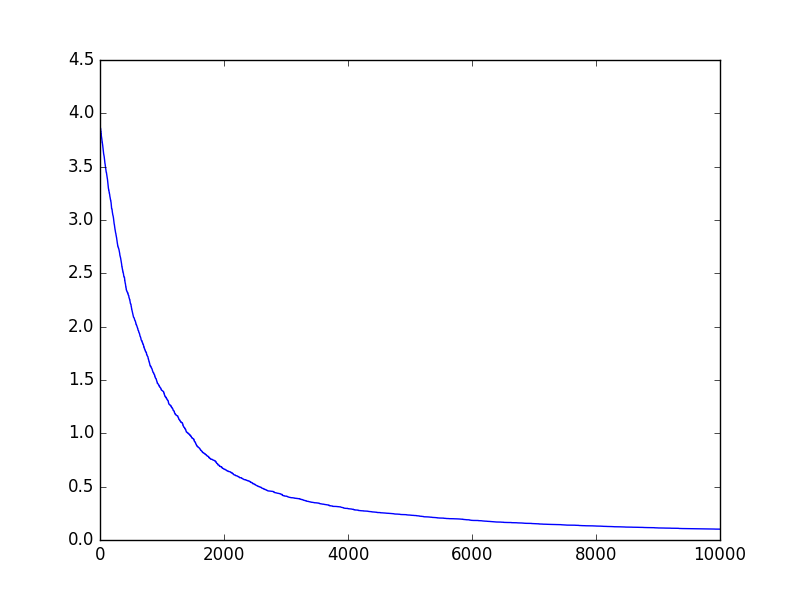
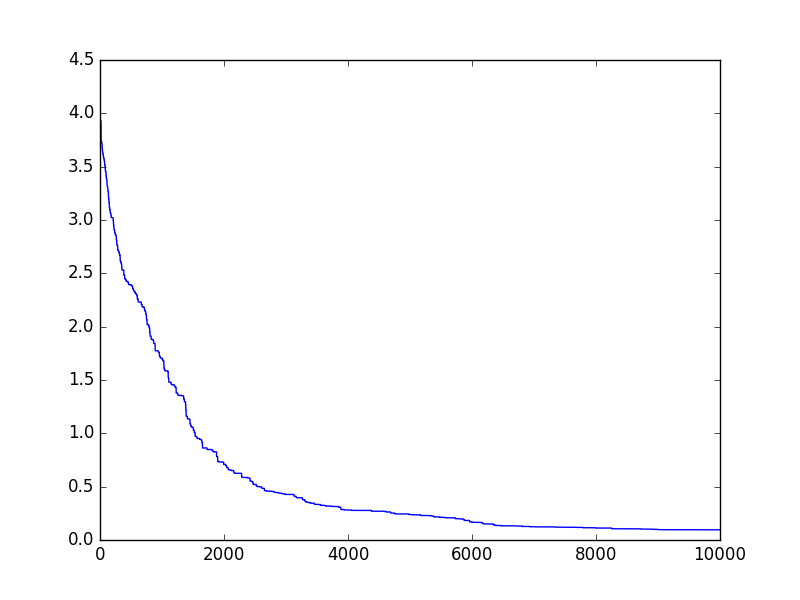
add docstrings in example/simple_functions

diff --git a/example/linear_classifier_using_ramploss/example.py b/example/linear_classifier_using_ramploss/example.py
@@ -1,19 +1,20 @@
-
-import arff, codecs
-from zoopt import Dimension, Objective, Parameter, Opt, Solution
-
 """
 this example optimizes a linear classifier using the non-convex ramploss instead of any convex loss function.
 
 this example requires the liac-arff package to read ARFF file
 
 Author:
-    Yuren Liu, Yang Yu
+    Yu-Ren Liu, Yang Yu
 """
 
+import arff, codecs
+from zoopt import Dimension, Objective, Parameter, Opt, Solution
 
-## define ramploss learning loss function
+
 class RampLoss:
+    """
+    Define ramploss learning loss function.
+    """
     __data = None
     __test = None
     __ramploss_c = 10
@@ -23,51 +24,72 @@ class RampLoss:
     def __init__(self, arfffile):
         self.read_data(arfffile)
 
-    # Read data from file
     def read_data(self, filename):
+        """
+        Read data from file.
+
+        :param filename: Name of the file to read
+        :return: no return
+        """
         file_ = codecs.open(filename, 'rb', 'utf-8')
         decoder = arff.ArffDecoder()
         dataset = decoder.decode(file_.readlines(), encode_nominal=True)
         file_.close()
         self.__data = dataset['data']
-        if( self.__data is not None and self.__data[0] is not None):
+        if self.__data is not None and self.__data[0] is not None:
             self.__dim_size = len(self.__data[0])
 
     def get_dim_size(self):
         return self.__dim_size
 
-    # calculate product between the weights and the instance
     def calc_product(self, weight, j):
+        """
+        Calculate product between the weights and the instance.
+
+        :param weight: weight vector
+        :param j: the index of the instance
+        :return: product value
+        """
         temp_sum = 0
         for i in range(len(weight) - 1):
             temp_sum += weight[i] * self.__data[j][i]
         temp_sum += weight[len(weight) - 1]
         return temp_sum
 
-    # calculate hinge loss
     def calc_h(self, ylfx, st):
+        """
+        Calculate hinge loss.
+        """
         temp = st - ylfx
         if temp > 0:
             return temp
         else:
             return 0
 
-    # calculate norm
-    def calc_norm(self, weight):
+    def calc_regularization(self, weight):
+        """
+        Calculate regularization
+        """
         temp_sum = 0
         for i in range(len(weight)):
             temp_sum += weight[i] * weight[i]
         return temp_sum
 
-    # transform label from 0/1 to -1/+1
     def trans_label(self, i):
+        """
+        Transform label from 0/1 to -1/+1
+        """
         if self.__data[i][self.__dim_size - 1] == 1:
             return 1
         else:
             return -1
 
-    # calculate the ramploss
+    #
     def eval(self, solution):
+        """
+        Objectve function to calculate the ramploss.
+
+        """
         weight = solution.get_x()
         H1 = 0
         Hs = 0
@@ -75,12 +97,15 @@ class RampLoss:
             fx = self.calc_product(weight, i)
             H1 += self.calc_h(self.trans_label(i) * fx, 1)
             Hs += self.calc_h(self.trans_label(i) * fx, self.__ramploss_s)
-        norm = self.calc_norm(weight)
-        value = norm / 2 + self.__ramploss_c * H1 - self.__ramploss_c * Hs
+        regularization = self.calc_regularization(weight)
+        value = regularization / 2 + self.__ramploss_c * H1 - self.__ramploss_c * Hs
         return value
 
-    # training error
-    def trainerror(self, best):
+    #
+    def training_error(self, best):
+        """
+        Training error.
+        """
         wrong = 0.0
         for i in range(len(self.__data)):
             fx = self.calc_product(best, i)
@@ -90,6 +115,9 @@ class RampLoss:
         return rate
 
     def dim(self):
+        """
+        Construct dimension of this problem.
+        """
         return Dimension(self.__dim_size, [[-10, 10]] * self.__dim_size, [True] * self.__dim_size)
 
 
@@ -100,7 +128,6 @@ if __name__=='__main__':
     repeat = 1
     result = []
     for i in range(repeat):
-
         objective = Objective(loss.eval, loss.dim())
         budget = 100 * loss.get_dim_size()
         parameter = Parameter(budget=budget)
@@ -109,4 +136,4 @@ if __name__=='__main__':
 
         print('solved solution is:')
         ins.print_solution()
-        print('training error: %f' % loss.trainerror(ins.get_x()))
+        print('training error: %f' % loss.training_error(ins.get_x()))

diff --git a/example/simple_functions/opt_under_noise.py b/example/simple_functions/opt_under_noise.py
@@ -1,3 +1,11 @@
+"""
+This file contains an example of optimizing a function under noise.
+
+Author:
+    Xiong-Hui chen, Yu-Ren Liu
+"""
+
+
 import matplotlib.pyplot as plt
 import time
 import numpy as np
@@ -7,8 +15,12 @@ from zoopt.utils.zoo_global import gl
 from quick_start import result_analysis
 
 
-# ssracos example for minimizing ackley with Gaussian noise
 def minimize_ackley_continuous_noisy():
+    """
+    SSRacos example of minimizing ackley function under Gaussian noise
+
+    :return: no return
+    """
     gl.set_seed(10001)  # set random seed
     t1 = time.clock()
     repeat = 10  # repeat of optimization experiments
@@ -22,7 +34,7 @@ def minimize_ackley_continuous_noisy():
         dim_tys = [True] * dim_size  # dimension type : real
         dim = Dimension(dim_size, dim_regs, dim_tys)  # form up the dimension object
         objective = Objective(ackley_noise_func, dim, balance_rate=0.5)  # form up the objective function
-        budget = 500  # 20*dim_size  # number of calls to the objective function
+        budget = 5000  # 20*dim_size  # number of calls to the objective function
         # suppression=True means optimize with value suppression, which is a noise handling method
         # non_update_allowed=500 and resample_times=100 means if the best solution doesn't change for 500 budgets,
         # the best solution will be evaluated repeatedly for 100 times
@@ -43,8 +55,8 @@ def minimize_ackley_continuous_noisy():
         plt.plot(history)
         print(history)
         print("len history %s" % len(objective.get_history()))
-    plt.show()
-    # plt.savefig("img/ackley_continuous_noisy_figure.png")  # uncomment this line and comment last line to save figures
+    # plt.show()
+    plt.savefig("img/ackley_continuous_noisy_figure.png")  # uncomment this line and comment last line to save figures
     result_analysis(result, repeat)
     t2 = time.clock()
     print('time cost: %f' % (t2 - t1))

diff --git a/example/simple_functions/quick_start.py b/example/simple_functions/quick_start.py
@@ -1,9 +1,8 @@
 """
-This file contains some examples about how to use Racos(or SRacos)
-optimization algorithm
+This file contains an example of how to optimize continuous ackley function.
 
 Author:
-    Yuren Liu, Xionghui Chen
+    Yu-Ren Liu, Xiong-Hui Chen
 """
 
 from zoopt import Dimension, Objective, Parameter, Opt, Solution
@@ -12,8 +11,15 @@ from fx import ackley
 import numpy as np
 
 
-# get mean value and standard deviation of best 'top' results
+#
 def result_analysis(results, top):
+    """
+    Get mean value and standard deviation of best 'top' results.
+
+    :param results: a list of results
+    :param top: the number of best results used to calculate mean value and standard deviation
+    :return: no return
+    """
     limit = top if top < len(results) else len(results)
     results.sort()
     top_k = results[0:limit]
@@ -24,7 +30,7 @@ def result_analysis(results, top):
 
 if __name__ == '__main__':
     dim = 100 # dimension
-    obj = Objective(ackley, Dimension(dim, [[-1, 1]] * dim, [True] * dim)) # setup objective
+    obj = Objective(ackley, Dimension(dim, [[-1, 1]] * dim, [True] * dim))  # setup objective
     # perform optimization
     solution = Opt.min(obj, Parameter(budget=100 * dim))
     # print result

diff --git a/example/simple_functions/continue_opt.py b/example/simple_functions/continue_opt.py
@@ -1,3 +1,10 @@
+"""
+This file contains examples of optimizing continuous objective function.
+
+Author:
+    Yu-Ren Liu, Xiong-Hui Chen
+"""
+
 import matplotlib.pyplot as plt
 import time
 import numpy as np
@@ -7,8 +14,12 @@ from zoopt.utils.zoo_global import gl
 from quick_start import result_analysis
 
 
-# example for minimizing the ackley function
 def minimize_ackley_continuous():
+    """
+    Continuous optimization example of minimizing the ackley function.
+
+    :return: no return
+    """
     t1 = time.clock()
     gl.set_seed(12345)  # set random seed
     repeat = 1  # repeat number of optimization
@@ -44,8 +55,12 @@ def minimize_ackley_continuous():
     print('time cost: %f' % (t2 - t1))
 
 
-# example for minimizing the sphere function
 def minimize_sphere_continuous():
+    """
+    Example of minimizing the sphere function
+
+    :return: no return
+    """
     gl.set_seed(12345)
     t1 = time.clock()
     repeat = 10

diff --git a/example/simple_functions/discrete_with_order_opt.py b/example/simple_functions/discrete_with_order_opt.py
@@ -1,3 +1,10 @@
+"""
+This file contains examples of optimizing discrete objective function with ordered search space.
+
+Author:
+    Yu-Ren Liu
+"""
+
 import matplotlib.pyplot as plt
 import time
 import numpy as np
@@ -6,8 +13,12 @@ from zoopt import Dimension, Objective, Parameter, Opt, Solution
 from zoopt.utils.zoo_global import gl
 from quick_start import result_analysis
 
-# example for minimizing the ackley function
+
 def minimize_sphere_discrete_order():
+    """
+    Discrete optimization example of minimizing the sphere function, which has ordered search space.
+    :return: no return
+    """
     t1 = time.clock()
     gl.set_seed(12345)  # set random seed
     repeat = 1  # repeat of optimization experiments

diff --git a/example/simple_functions/discrete_opt.py b/example/simple_functions/discrete_opt.py
@@ -1,3 +1,10 @@
+"""
+This file contains examples of optimizing discrete objective function.
+
+Author:
+    Yu-Ren Liu
+"""
+
 import matplotlib.pyplot as plt
 import time
 import numpy as np
@@ -7,8 +14,12 @@ from zoopt.utils.zoo_global import gl
 from quick_start import result_analysis
 
 
-# discrete optimization example using minimum set cover instance
 def minimize_setcover_discrete():
+    """
+    Discrete optimization example of minimizing setcover problem.
+
+    :return: no return
+    """
     gl.set_seed(12345)  # set random seed
     t1 = time.clock()
     repeat = 1  # repeat number of optimization

diff --git a/example/simple_functions/mixed_opt.py b/example/simple_functions/mixed_opt.py
@@ -1,3 +1,10 @@
+"""
+This file contains an example of optimizing a function with the mixed search space(continuous and discrete).
+
+Author:
+    Yu-Ren Liu
+"""
+
 import matplotlib.pyplot as plt
 import time
 import numpy as np
@@ -9,6 +16,11 @@ from quick_start import result_analysis
 
 # mixed optimization
 def minimize_sphere_mixed():
+    """
+    Mixed optimization example of minimizing sphere function, which has mixed search search space.
+
+    :return: no return
+    """
     t1 = time.clock()
     gl.set_seed(12345)  # set random seed
     repeat = 11  # repeat of optimization experiments
